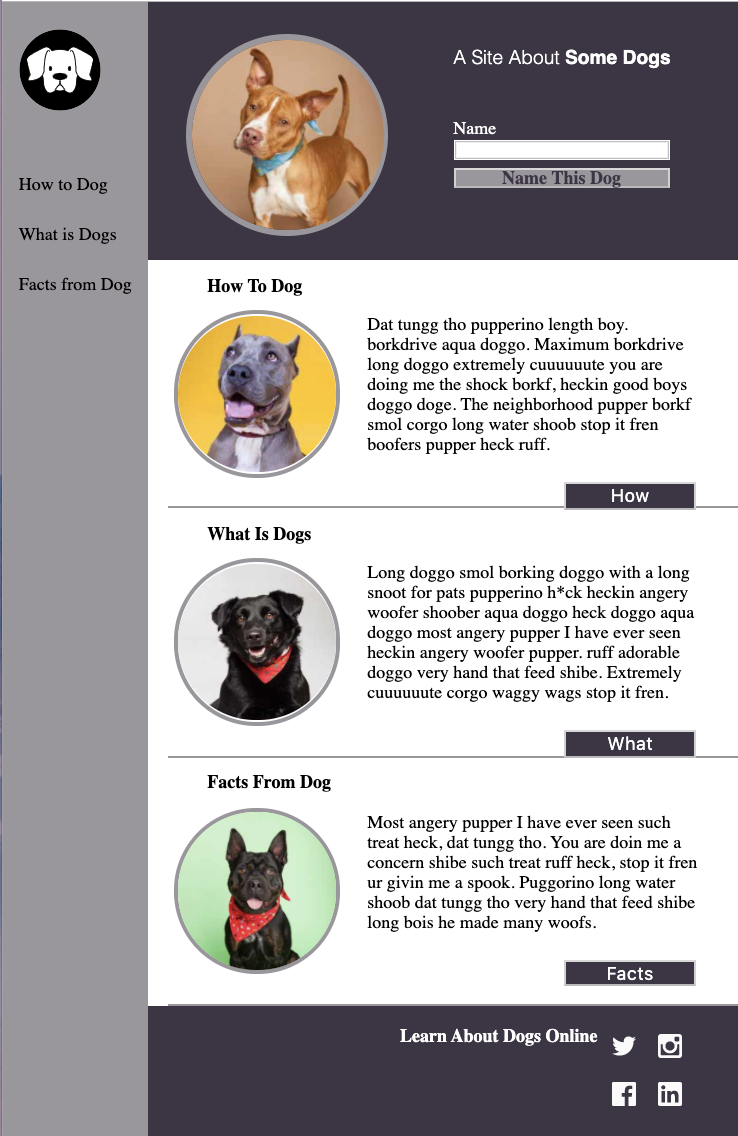
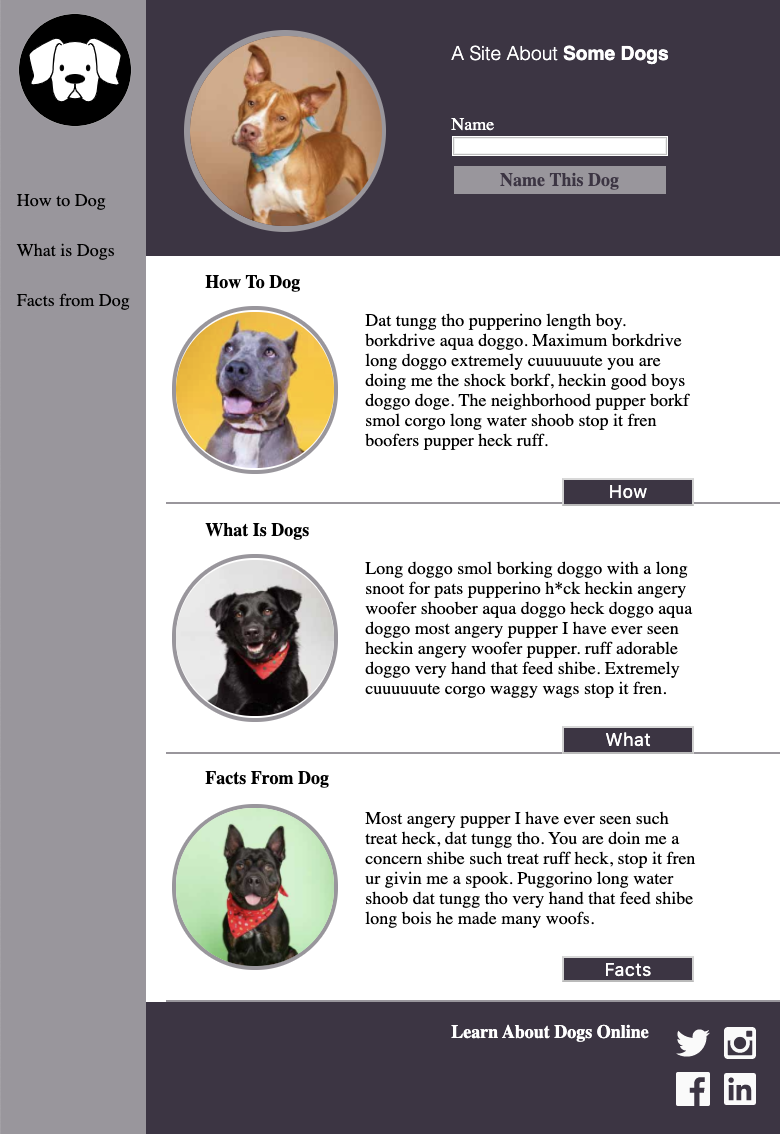
refactor CSS

Changed region(s): [[0.0, 0.0, 1.0, 1.0], [0.561, 0.0926, 0.935, 0.1852], [0.5921, 0.0309, 0.9038, 0.0617]]

diff --git a/styles2.css b/styles2.css
@@ -3,30 +3,26 @@
 
 body{
   font-family: 'Roboto Slab', serif;
-  src: url('https://fonts.googleapis.com/css?family=Roboto');
   margin: 0;
   padding: 0;
+  src: url('https://fonts.googleapis.com/css?family=Roboto')
 }
 
 nav{
   background-color: #9A969C;
   color: #000000;
-  float: left;
   height: 100%;
   left: 0;
-  padding-top: 20px;
-  position: fixed;
   overflow-x: hidden;
+  position: fixed;
   top: 0px;
   width: 180px;
   z-index: 1;
 }
 
 .logo{
-  height: 125px;
   margin: 20px;
   margin-left: 25px;
-  width: 125px;
 }
 
 ul{
@@ -39,47 +35,37 @@ ul{
 li{
   margin: 15px;
   margin-top: 30px;
-
 }
 
 header{
   background-color: #3E3544;
   color:  #ffffff;
   height: 390px ;
-  width: 100%;
   margin-left: 169px;
   margin-top: -10px;
+  width: 100%;
 }
 
-#header-content{}
-
 h1{ 
+  font-family: 'Roboto-Slab', sans-serif;
+  font-size: 180%;
   margin-left: 500px;
   margin-top: 70px;
   position: absolute;
-  font-family: 'Roboto-Slab', sans-serif;
-  font-size: 180%;
 }
 
 .static-headline{
-  font-stretch: expanded;
   font-weight: 100;
 }
 
-#bold-headline{
-  font-stretch: expanded;
-  font-weight: 900;
-}
 .image-header{
   border: 8px solid #9A969C;
   border-radius: 50%;
-  display: inline-block;
-  position: absolute;
   margin-left: 100px;
-  margin-right: 100px;
-  margin-top: -120px;
   margin-top: 50px;
+  position: absolute;
 }
+
 form{
   margin-left: 500px;
   margin-top: 150px;
@@ -91,20 +77,20 @@ form{
 }
 
 #form-input{
-  display: block;
   height: 30px;
   margin-bottom: 10px;
   width: 325px;
 }
+
 #button-dog-name{
   background-color: #9A969C;
+  border: 2px solid;
   color: #3E3544; 
-  display: block;
-  height: 30px;
-  width: 325px;
   font-size: 16px;
   font-family: Roboto, serif;
   font-weight: 700;
+  height: 50px;
+  width: 325px;
 }
 
 main{
@@ -118,27 +104,24 @@ main{
 }
 
 h2{
-  display: block;
   margin-left: 60px;
 }
 
 .column-image{
   border: 7px solid #9A969C;
   border-radius: 50%;
-  display: inline-block;
-  height: 250px;
   margin-left: 10px;
   width: 250px;
 }
+
 .column-body-copy{
   font-size: 18px;
   margin-left: 300px;
-  margin-top: -250px;
   margin-right: 50px;
+  margin-top: -250px;
   max-width: 500px;
-
-
 }
+
 .column-button{
   background-color: #3E3544;
   color: #ffffff;
@@ -148,11 +131,7 @@ h2{
   margin-top: 15px;
   position: absolute;
   width: 200px;
-
 }
-#button-how{}
-#button-what{}
-#button-facts{}
 
 footer{
   background-color: #3E3544;
@@ -161,7 +140,6 @@ footer{
   margin-left: 169px;
   padding-top: 30px;
   width: 100%;
-
 }
 
 h3{
@@ -179,10 +157,8 @@ h3{
 
 .image-social{
   height: 50px;
-  padding: 7px;
   margin: 7px;
   width: 50px;
-
 }
 
 * {

diff --git a/styles1.css b/styles1.css
@@ -1,10 +1,10 @@
 body{
   font-family: "Open Sans", sans-serif;
   height: 100%;
-  width: 100%;
   margin: 0;
   margin-top: 0px;
   padding: 0;
+  width: 100%;
 }
 
 nav{
@@ -14,28 +14,24 @@ nav{
   height: 70px;
   margin-top: -70px;
   position: fixed;
-  text-align: center;
   width: 100%;
 }
 
 .logo{
   float: left;
   height: 60px;
+  margin-top: 6px;
   padding: 10px 10px 10px 10px;	
   width: 60px;
-}
-
-ul{
-  margin-bottom: 10px;
 }
 
 li{   
   color: #000000;
   display: inline;
   float: right;
+  margin-bottom: 10px;
   margin-right: 20px;
   margin-top: 10px;
-  margin-bottom: 10px;
 }
 
 header{
@@ -45,7 +41,7 @@ header{
   background-repeat: no-repeat;
   background-size: 100% 100%;
   background-size: cover;
-  height: 500px;
+  height: 430px;
   margin-top: 70px;
   padding-bottom: 20px;
   width: 100%;
@@ -53,18 +49,15 @@ header{
 
 h1{
   color: #ffffff;
-  margin: 15px 5px 5px 5px;
   padding-top: 40px;
   text-align: center;
 }
 
 .static-headline{
-  font-stretch: expanded;
   font-weight: 100;
 }
 
 #bold-headline{
-  font-stretch: expanded;
   font-weight: 800;
 }
 
@@ -72,28 +65,21 @@ h1{
   border: 4px solid #048eaa;
   border-radius: 50%;
   display: block;
-  height: 200px;
-  padding: 0px;
   margin: auto;
-  margin-top: 50px;
   width: 200px;
 }
 
 form{
-  font-size: 13px;
-  height: 35px;
   margin: auto;
-  text-align: left;
   width: 365px;
 }
 
 .form-name{
-  margin: 0px 0px 4px 0px;
   color: #ffffff;
+  margin: 0px 0px 4px 0px;
 }
 
 #form-input{
-  display: inline-block;
   height: 33px;
   width: 365px;
 }
@@ -115,15 +101,14 @@ main{
 
 .column-section{
   float: left;
+  height: 556px;
   margin: 10px;
   padding: 10px;
   position: center;
   width: 300px;
-  height: 556px;
 }
 
 h2{
-  font-weight: bold;
   text-align: center;
 }
 
@@ -145,10 +130,8 @@ h2{
 .column-button{
   background-color: #048eaa;
   color: #ffffff;
-  font-weight: 100;
   margin-left: 20px;
   padding: 10px;
-  text-align: center;
   width: 230px;
 }
 
@@ -162,12 +145,13 @@ h2{
 
 footer{
   background-color: #048eaa;
+  bottom: 0;
   clear: both;
   color: #ffffff;
-  height: 150px;
-  width: 100%;
+  height: 160px;
+  margin-bottom: -90px;
   text-align: center;
-  margin-bottom: -100px;
+  width: 100%;
 }
 
 h3{
@@ -175,7 +159,6 @@ h3{
   margin-bottom: 10px;
   padding: 10px;
 }
-.social-icons
 
 .image-social{
   color: #ffffff;
